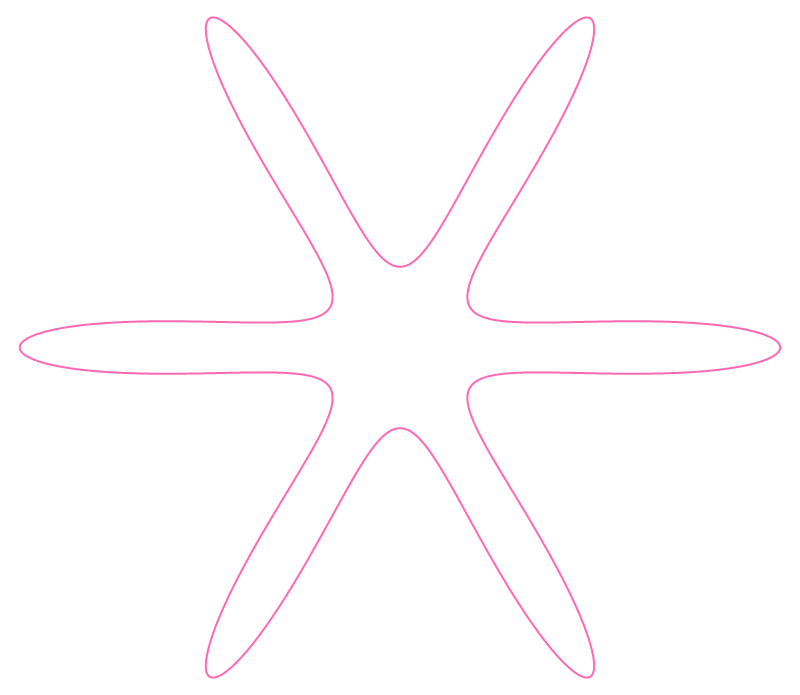
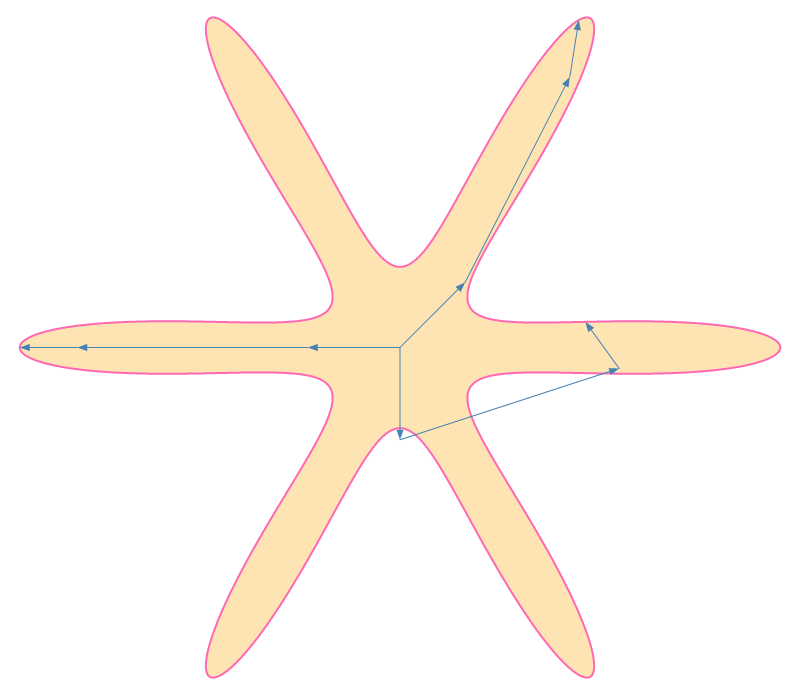
.

Changed region(s): [[0.0312, 0.0302, 0.9688, 0.9669]]

diff --git a/bausteine/08-datenstrukturen/aufgaben/projekt-musterloesung/02-trigonometric-polynomial/TrigonometricPolynomial.cs b/bausteine/08-datenstrukturen/aufgaben/projekt-musterloesung/02-trigonometric-polynomial/TrigonometricPolynomial.cs
@@ -55,7 +55,7 @@ public class TrigonometricPolynomial
     public void Plot(BoDrawApp app, int nsteps)
     {
         double dt = 2 * PI / (nsteps - 1);
-        Polyline pl = new Polyline();
+        Polygon pl = new Polygon();
 
         for (int i = 0; i < nsteps; i++)
         {
@@ -63,10 +63,26 @@ public class TrigonometricPolynomial
             Complex v = this.Evaluate(t);
             pl.AddPoint(v.Re, v.Im);
         }
-        pl.Color = Colors.HotPink;
-        pl.Thickness = 2;
+        pl.FillColor = Colors.Orange;
+        pl.FillOpacity = 0.3;
+        pl.LineColor = Colors.HotPink;
+        pl.LineThickness = 2;
 
         app.Add(pl);
+    }
+
+    public void PlotArrows(BoDrawApp app, double t)
+    {
+        Complex p1 = new Complex(0, 0);
+
+        foreach (var k in this.Coefficients.Keys)
+        {
+            Complex p2 = p1.Add(this.Coefficients[k].Multiply(new Complex(Cos(k * t), Sin(k * t))));
+            Arrow arrow = new Arrow(p1.Re, p1.Im, p2.Re, p2.Im);
+            arrow.Color = Colors.SteelBlue;
+            app.Add(arrow);
+            p1 = p2;
+        }
     }
 
     public void PlotComponents(BoDrawApp app, int nsteps)

diff --git a/bausteine/08-datenstrukturen/aufgaben/projekt-musterloesung/02-trigonometric-polynomial/TrigonometricPolynomialDemo.cs b/bausteine/08-datenstrukturen/aufgaben/projekt-musterloesung/02-trigonometric-polynomial/TrigonometricPolynomialDemo.cs
@@ -1,4 +1,5 @@
 using BoDraw;
+using static System.Math;
 
 TrigonometricPolynomial p = new TrigonometricPolynomial();
 p.AddCoefficient(-5, new Complex(0.4, 0));
@@ -10,7 +11,11 @@ Console.WriteLine($"Grad: {p.Degree()}");
 Console.WriteLine($"Real: {p.IsReal()}");
 
 BoDrawApp app = new BoDrawApp();
+
 p.Plot(app, 1000);
+p.PlotArrows(app, 0.1 * PI);
+p.PlotArrows(app, 0.35 * PI);
+p.PlotArrows(app, PI);
 // p.PlotComponents(app, 1000);
 app.SaveImage("trigonometric-polynomial.png");
 // app.Show();
